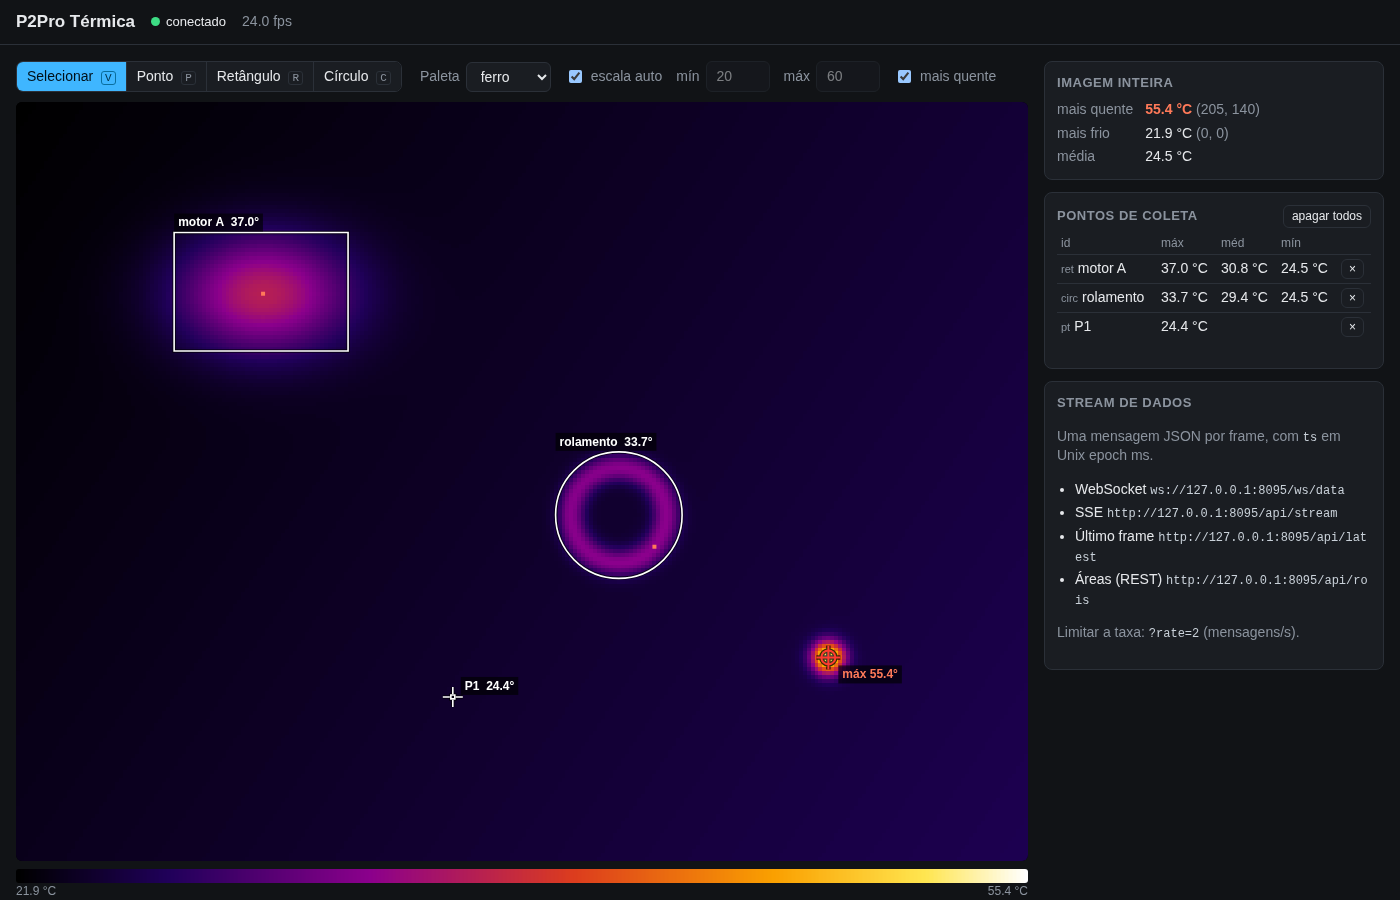
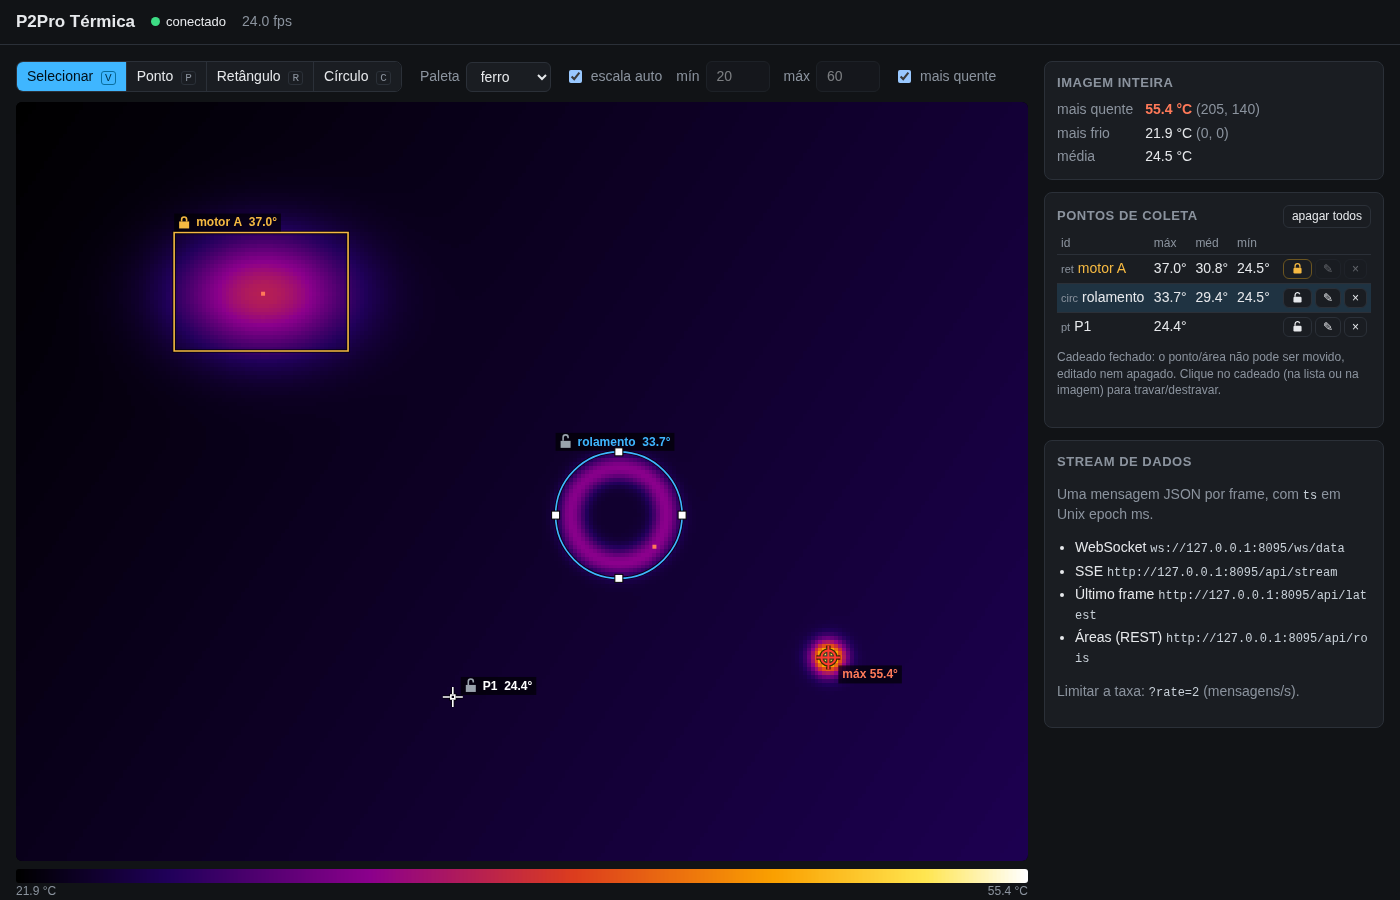
docs: editing and locking, status messages, driver timestamps, reconnecting
Describe PATCH, the lock and HTTP 423, "type"/"ts_source" and the status message, unplugging the
camera and --cam; new screenshot with a locked area.

diff --git a/Readme.md b/Readme.md
@@ -8,10 +8,13 @@ Live view and temperature data stream for the Infiray P2Pro thermal camera on Wi
 `thermal_server.py` reads the camera at its full frame rate (25 fps) and offers:
 - a browser UI with the live thermal image (colormaps, auto/manual scale, temperature under the mouse cursor)
 - collection points/areas drawn on the image: point (pixel), rectangle (drag) or circle (drag the radius),
-  each with a label/id; delete them with the x in the list or select + Delete key
+  each with a label/id. Select them to move (drag, arrow keys), resize (handles), rename (double click or the pencil
+  in the list) or delete (x in the list or the Delete key)
+- a lock per point/area (click the lock on the image or in the list): a locked one can not be moved, edited or deleted
 - the hottest (and coldest) pixel of the whole image with position
 - a **data stream** for other applications: one JSON message per frame with unix epoch timestamp in ms,
   the global values and every point/area with its geometry and values
+- unplugging the camera: the server keeps running, reports it (UI and stream) and reconnects when the camera is back
 
 ```bash
 source .venv/bin/activate          # or your conda env, see Installation
@@ -21,7 +24,8 @@ python thermal_server.py           # camera auto detected on Linux, otherwise --
 ```
 Options: `--host 0.0.0.0` makes the server reachable from other machines (**there is no authentication**, everybody
 in the network can see the stream and create/delete areas), `--port`, `--rois <file>` (default `rois.json`, the areas
-survive restarts). Only one program can stream from the camera at a time (close webcam apps like Cheese).
+survive restarts), `--cam` (without it the camera is found by its USB id, also when it comes back under another
+/dev/videoN after unplugging it). Only one program can stream from the camera at a time (close webcam apps like Cheese).
 
 ### Data stream
 | what | how |
@@ -35,26 +39,37 @@ survive restarts). Only one program can stream from the camera at a time (close 
 The push streams send every frame (~25/s). Add `?rate=N` to get at most N messages per second
 (e.g. `ws://127.0.0.1:8080/ws/data?rate=1`). A slow client skips frames, it never receives old data.
 
-Message (one per frame):
+Frame message (one per frame):
 ```json
 {
+  "type": "frame",
   "ts": 1731420000123,
+  "ts_source": "driver",
   "frame": 1234,
   "unit": "C", "width": 256, "height": 192,
   "global": {"min": 27.8, "max": 34.67, "mean": 31.4, "max_pos": {"x": 123, "y": 170}, "min_pos": {"x": 237, "y": 151}},
   "rois": [
-    {"id": "P1", "type": "point", "x": 200, "y": 50, "temp": 32.01},
-    {"id": "motor A", "type": "rect", "x": 40, "y": 30, "w": 40, "h": 30,
+    {"id": "P1", "type": "point", "x": 200, "y": 50, "locked": false, "temp": 32.01},
+    {"id": "motor A", "type": "rect", "x": 40, "y": 30, "w": 40, "h": 30, "locked": true,
      "pixels": 1200, "min": 30.86, "max": 31.86, "mean": 31.34, "max_pos": {"x": 52, "y": 41}, "min_pos": {"x": 77, "y": 58}},
-    {"id": "bearing", "type": "circle", "cx": 150.5, "cy": 100.5, "r": 10,
+    {"id": "bearing", "type": "circle", "cx": 150.5, "cy": 100.5, "r": 10, "locked": false,
      "pixels": 317, "min": 32.0, "max": 32.4, "mean": 32.3, "max_pos": {"x": 151, "y": 97}, "min_pos": {"x": 141, "y": 103}}
   ]
 }
 ```
-- `ts`: unix epoch in milliseconds, host time when the frame was received.
+- `ts`: unix epoch in milliseconds of the frame capture. `ts_source` `"driver"`: the camera driver (Linux V4L2) stamps
+  each frame when its first data arrives, ~36 ms before the whole frame is received; converted to the wall clock of
+  the computer. `"host"` (Windows, or no usable driver time): the time the frame was read. The camera itself has
+  no clock with date and time, so the time always comes from the computer.
 - coordinates are image pixels: `x` = column 0..255, `y` = row 0..191 (sensor orientation). Pixel (i, j) covers
   [i, i+1) x [j, j+1). A rect/circle contains the pixels whose center (i+0.5, j+0.5) lies inside it.
 - temperatures in Celsius, rounded to 0.01. The camera works in the high gain mode (up to ~180 C).
+
+Status message: sent when a client connects and whenever the camera is unplugged/plugged in or stops sending frames
+for 2 s (no frame messages are sent while it is disconnected):
+```json
+{"type": "status", "ts": 1731420000123, "camera_connected": false, "camera": "/dev/video4", "error": "camera read failed: ..."}
+```
 
 Examples:
 ```bash
@@ -63,7 +78,11 @@ curl -N http://127.0.0.1:8080/api/stream?rate=1            # SSE in the terminal
 ```
 ```js
 const ws = new WebSocket('ws://127.0.0.1:8080/ws/data');   // browser / node
-ws.onmessage = (ev) => { const m = JSON.parse(ev.data); console.log(m.ts, m.global.max, m.rois); };
+ws.onmessage = (ev) => {
+  const m = JSON.parse(ev.data);
+  if (m.type === 'status') console.log('camera connected:', m.camera_connected);
+  else console.log(m.ts, m.global.max, m.rois);
+};
 ```
 
 ### Collection points/areas over REST
@@ -73,14 +92,20 @@ curl http://127.0.0.1:8080/api/rois                                             
 curl -X POST http://127.0.0.1:8080/api/rois -d '{"id":"motor A","type":"rect","x":40,"y":30,"w":40,"h":30}'
 curl -X POST http://127.0.0.1:8080/api/rois -d '{"id":"bearing","type":"circle","cx":150.5,"cy":100.5,"r":10}'
 curl -X POST http://127.0.0.1:8080/api/rois -d '{"type":"point","x":200,"y":50}'      # no id -> P1, P2, ...
-curl -X DELETE "http://127.0.0.1:8080/api/rois/motor%20A"                               # delete one (URL encoded id)
-curl -X DELETE http://127.0.0.1:8080/api/rois                                          # delete all
+curl -X PATCH "http://127.0.0.1:8080/api/rois/motor%20A" -d '{"x":50,"y":35}'           # move (URL encoded id)
+curl -X PATCH "http://127.0.0.1:8080/api/rois/motor%20A" -d '{"w":20,"id":"motor B"}'   # resize and rename
+curl -X PATCH "http://127.0.0.1:8080/api/rois/motor%20B" -d '{"locked":true}'           # lock (false: unlock)
+curl -X DELETE "http://127.0.0.1:8080/api/rois/motor%20B"                               # delete one
+curl -X DELETE http://127.0.0.1:8080/api/rois                                          # delete all unlocked
 ```
-Errors: 400 invalid definition (outside the image, w/h/r <= 0, ...), 409 id already exists, 404 id not found.
-An id has 1..64 characters (no control characters).
+`PATCH` takes any of `id`, `locked` and the geometry keys of the type (`x`,`y` / `x`,`y`,`w`,`h` / `cx`,`cy`,`r`);
+the type can not change. A locked point/area only accepts a change together with `"locked": false`.
+Errors: 400 invalid definition (outside the image, w/h/r <= 0, ...), 404 id not found, 409 id already exists,
+423 locked. An id has 1..64 characters (no control characters).
 
 ### Live view protocol
-`ws://<host>:8080/ws/live` (used by the browser UI): per frame the JSON message above followed by one binary message:
+`ws://<host>:8080/ws/live` (used by the browser UI): the status messages and per frame the JSON frame message
+followed by one binary message:
 header `'<4sHHId'` (`b'P2PR'`, width, height, frame, ts_ms as float64) and width*height uint16 little endian raw values,
 T[C] = raw/64 - 273.2.
 
